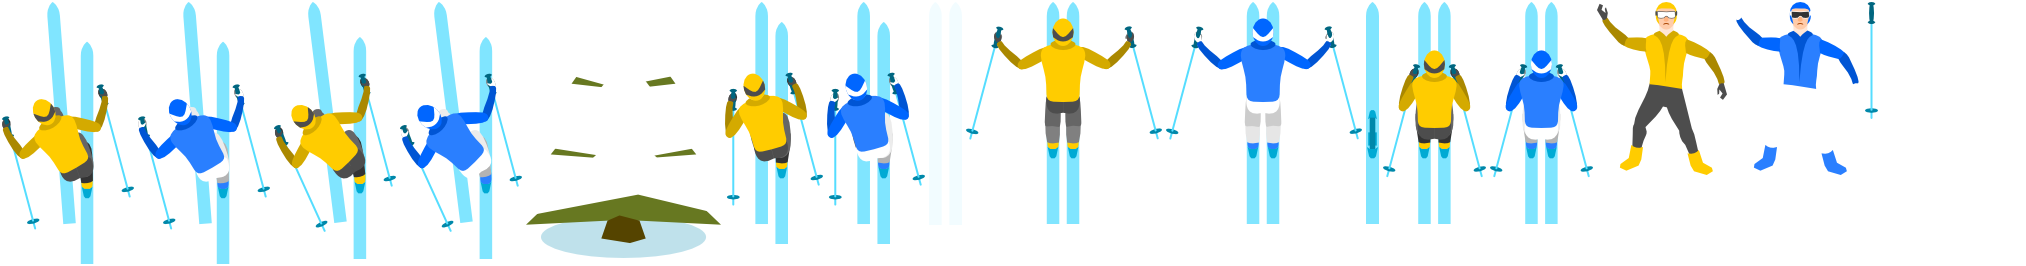
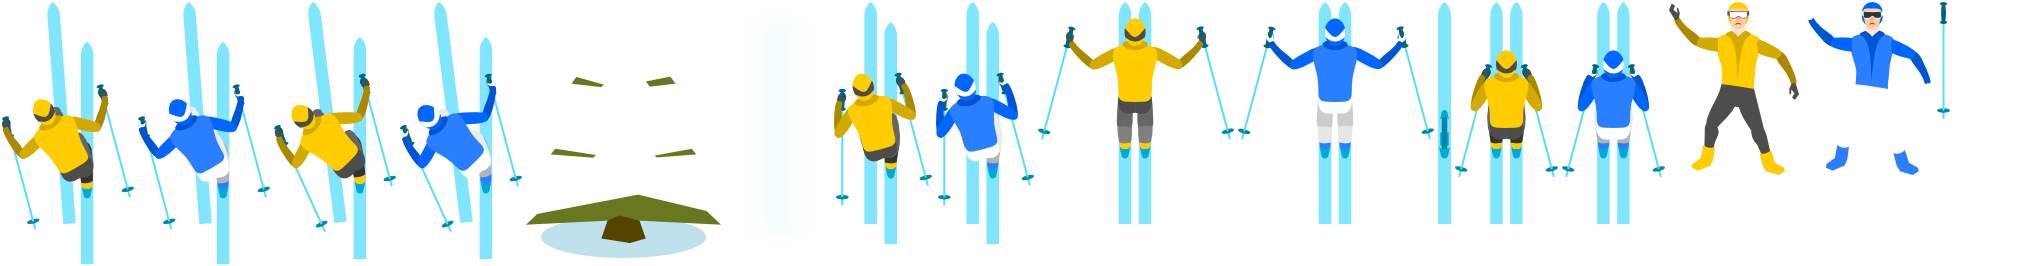
Better ski marks

Changed region(s): [[0.3421, 0.0, 0.964, 0.9323], [0.9018, 0.391, 0.964, 0.4211]]

diff --git a/index.html b/index.html
@@ -1047,15 +1047,15 @@ function scale( styleWidth )
 	var frames = {
 			skierBlueStraight: {
 				rotate: true,
-				rect: {/*skier-blue-straight*/x:1490,y:2,w:103,h:222}
+				rect: {/*skier-blue-straight*/x:1562,y:2,w:103,h:222}
 			},
 			skierBlueJump: {
 				rotate: true,
-				rect: {/*skier-blue-jump*/x:1166,y:2,w:196,h:222}
+				rect: {/*skier-blue-jump*/x:1238,y:2,w:196,h:222}
 			},
 			skierBlueLeanLeft1: {
 				rotate: true,
-				rect: {/*skier-blue-lean1-left*/x:827,y:2,w:98,h:242}
+				rect: {/*skier-blue-lean1-left*/x:936,y:2,w:98,h:242}
 			},
 			skierBlueLeanLeft2: {
 				rotate: true,
@@ -1068,7 +1068,7 @@ function scale( styleWidth )
 			skierBlueLeanRight1: {
 				mirror: true,
 				rotate: true,
-				rect: {/*skier-blue-lean1-left*/x:827,y:2,w:98,h:242}
+				rect: {/*skier-blue-lean1-left*/x:936,y:2,w:98,h:242}
 			},
 			skierBlueLeanRight2: {
 				mirror: true,
@@ -1082,19 +1082,19 @@ function scale( styleWidth )
 			},
 			skierBlueCrashed: {
 				rotate: true,
-				rect: {/*skier-blue-crashed*/x:1731,y:2,w:130,h:173}
+				rect: {/*skier-blue-crashed*/x:1803,y:2,w:130,h:173}
 			},
 			skierYellowStraight: {
 				rotate: true,
-				rect: {/*skier-yellow-straight*/x:1383,y:2,w:103,h:222}
+				rect: {/*skier-yellow-straight*/x:1455,y:2,w:103,h:222}
 			},
 			skierYellowJump: {
 				rotate: true,
-				rect: {/*skier-yellow-jump*/x:966,y:2,w:196,h:222}
+				rect: {/*skier-yellow-jump*/x:1038,y:2,w:196,h:222}
 			},
 			skierYellowLeanLeft1: {
 				rotate: true,
-				rect: {/*skier-yellow-lean1-left*/x:725,y:2,w:98,h:242}
+				rect: {/*skier-yellow-lean1-left*/x:834,y:2,w:98,h:242}
 			},
 			skierYellowLeanLeft2: {
 				rotate: true,
@@ -1107,7 +1107,7 @@ function scale( styleWidth )
 			skierYellowLeanRight1: {
 				mirror: true,
 				rotate: true,
-				rect: {/*skier-yellow-lean1-left*/x:725,y:2,w:98,h:242}
+				rect: {/*skier-yellow-lean1-left*/x:834,y:2,w:98,h:242}
 			},
 			skierYellowLeanRight2: {
 				mirror: true,
@@ -1121,19 +1121,19 @@ function scale( styleWidth )
 			},
 			skierYellowCrashed: {
 				rotate: true,
-				rect: {/*skier-yellow-crashed*/x:1597,y:2,w:130,h:173}
+				rect: {/*skier-yellow-crashed*/x:1669,y:2,w:130,h:173}
 			},
 			pole: {
 				rotate: true,
-				rect: {/*pole*/x:1865,y:2,w:13,h:117}
+				rect: {/*pole*/x:1937,y:2,w:13,h:117}
 			},
 			ski: {
 				rotate: true,
-				rect: {/*ski*/x:1366,y:2,w:13,h:222}
+				rect: {/*ski*/x:1438,y:2,w:13,h:222}
 			},
 			skiMarks: {
 				rotate: true,
-				rect: {/*ski-marks*/x:929,y:2,w:33,h:223}
+				rect: {/*ski-marks*/x:725,y:2,w:105,h:249}
 			},
 			tree: {
 				rect: {/*tree*/x:526,y:2,w:195,h:256}
@@ -1146,13 +1146,13 @@ function scale( styleWidth )
 				rect: {/*flake1*/x:1998,y:2,w:26,h:26}
 			},
 			flake2: {
-				rect: {/*flake2*/x:1964,y:2,w:30,h:30}
+				rect: {/*flake2*/x:1954,y:84,w:30,h:30}
 			},
 			flake3: {
-				rect: {/*flake3*/x:1926,y:2,w:34,h:34}
+				rect: {/*flake3*/x:1954,y:46,w:34,h:34}
 			},
 			flake4: {
-				rect: {/*flake4*/x:1882,y:2,w:40,h:40}
+				rect: {/*flake4*/x:1954,y:2,w:40,h:40}
 			}
 		},
 		step = Math.TAU/orientationsLength,
@@ -1400,7 +1400,7 @@ function load()
 
 window.onload = load;
 
-function stats(){var script=document.createElement('script');script.src='http://github.com/mrdoob/stats.js/raw/master/build/stats.min.js';document.body.appendChild(script);script=document.createElement('script');script.innerHTML='var interval=setInterval(function(){if(typeof Stats==\'function\'){clearInterval(interval);var stats=new Stats();stats.domElement.style.position=\'fixed\';stats.domElement.style.left=\'0px\';stats.domElement.style.top=\'0px\';stats.domElement.style.zIndex=\'10000\';document.body.appendChild(stats.domElement);setInterval(function(){stats.update();},1000/60);}},100);';document.body.appendChild(script);}stats();
+/*function stats(){var script=document.createElement('script');script.src='http://github.com/mrdoob/stats.js/raw/master/build/stats.min.js';document.body.appendChild(script);script=document.createElement('script');script.innerHTML='var interval=setInterval(function(){if(typeof Stats==\'function\'){clearInterval(interval);var stats=new Stats();stats.domElement.style.position=\'fixed\';stats.domElement.style.left=\'0px\';stats.domElement.style.top=\'0px\';stats.domElement.style.zIndex=\'10000\';document.body.appendChild(stats.domElement);setInterval(function(){stats.update();},1000/60);}},100);';document.body.appendChild(script);}stats();*/
 
 </script>
 </body>
